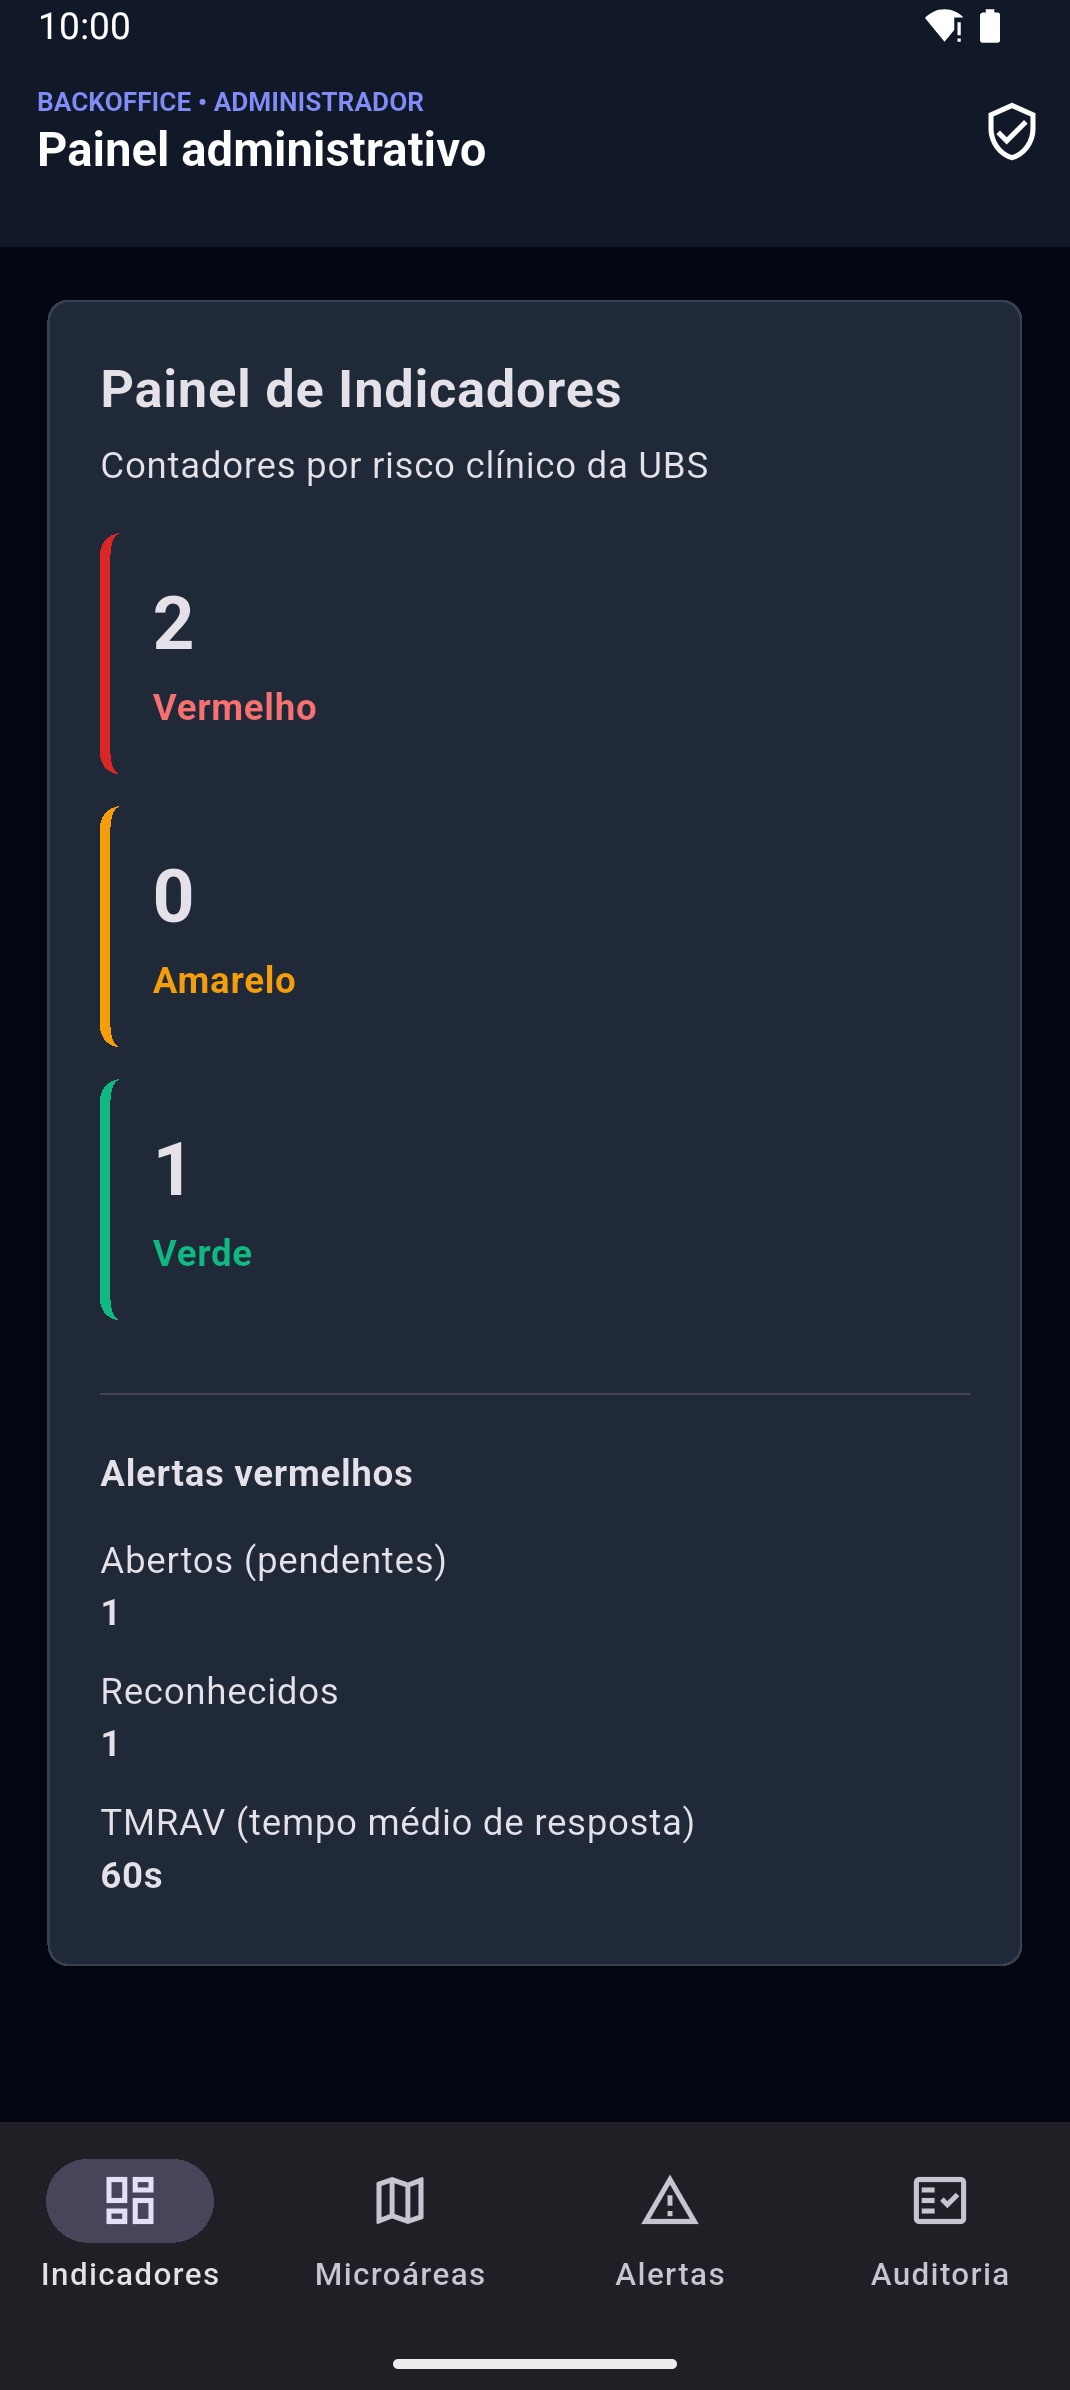
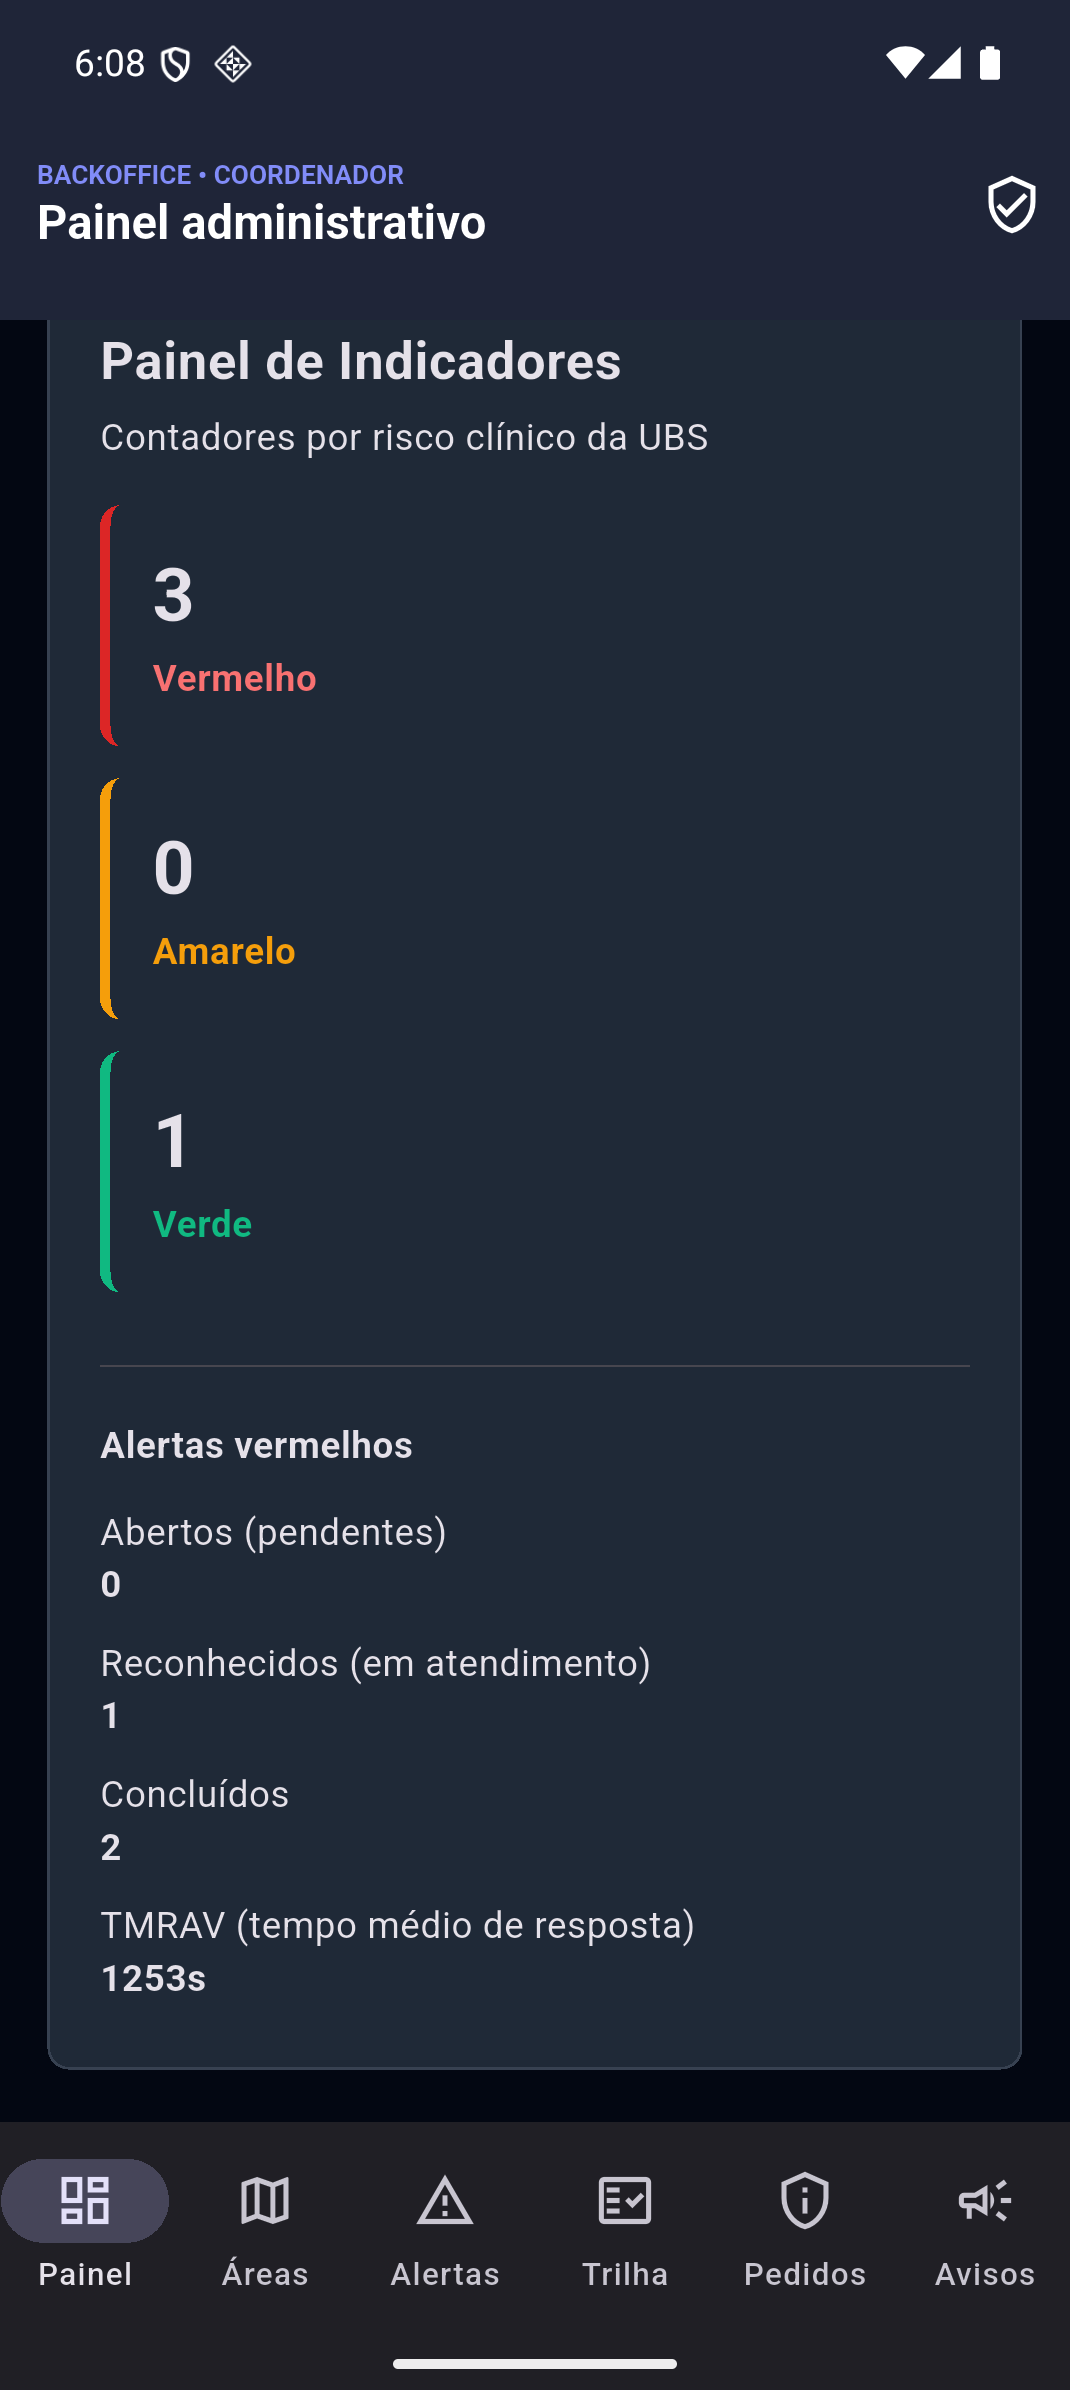
docs(admin): captura do Painel com a linha Concluídos (#87)

diff --git a/docs/telas-admin.md b/docs/telas-admin.md
@@ -1,6 +1,6 @@
 # Telas do Backoffice Admin
 
-Documentação visual do protótipo Flutter do backoffice administrativo (`apps/admin`). Assim como `docs/telas-acs.md` e `docs/telas-paciente.md`, as imagens abaixo foram capturadas rodando o app com dados sintéticos: a 01 no emulador em 2026-10-06 e a 01b no Motorola edge 40 neo em 2026-10-07; as de 02 a 05 em 2026-10-07 no emulador `emulator-5554` (API 36, tema escuro, com a borda de 5 px recortada), com sessão real do administrador de teste e **dados do backend** (3 alertas semeados no banco de e2e, nenhum dado real); as de 06 a 08 em 2026-10-07 no Motorola edge 40 neo (Android 15), de uma rodada anterior, com o painel ainda sobre o mock (o layout é o mesmo, mas os números mostrados nelas não são os do backend). A gestão de contas da issue #43 **não tem capturas ainda** — o porquê está em "Capturas pendentes", na seção de Microáreas.
+Documentação visual do protótipo Flutter do backoffice administrativo (`apps/admin`). Assim como `docs/telas-acs.md` e `docs/telas-paciente.md`, as imagens abaixo foram capturadas rodando o app com dados sintéticos: a 01 no emulador em 2026-10-06 e a 01b no Motorola edge 40 neo em 2026-10-07; as de 03 a 05 em 2026-10-07 no emulador `emulator-5554` (API 36, tema escuro, com a borda de 5 px recortada), com sessão real do administrador de teste e **dados do backend** (3 alertas semeados no banco de e2e, nenhum dado real); a 02 refeita em 2026-10-27 no mesmo emulador, com sessão real do coordenador de teste, no fim da jornada de `scripts/qa/admin_concluidos_e2e.sh` (4 alertas semeados mais o concluído da jornada); as de 06 a 08 em 2026-10-07 no Motorola edge 40 neo (Android 15), de uma rodada anterior, com o painel ainda sobre o mock (o layout é o mesmo, mas os números mostrados nelas não são os do backend). A gestão de contas da issue #43 **não tem capturas ainda** — o porquê está em "Capturas pendentes", na seção de Microáreas.
 
 ## Navegação
 
@@ -31,7 +31,7 @@ Contadores por `RiskLevel` (vermelho/amarelo/verde), alertas vermelhos abertos, 
 
 Desde a issue #44 o painel se atualiza sozinho, pelo pulso de 30 s (`admin.alertsPulse`, que já traz os indicadores); não há botão de recarregar. Se o último pulso bem-sucedido passa de 60 s, uma faixa com ícone e texto ("Dados de HH:MM:SS — sem atualização há N min") avisa que os números estão desatualizados, e some no próximo pulso que der certo. A permanência na tela é registrada na auditoria como uma sessão de monitoramento (início e fim), não uma linha por pulso. Ao lado do título, quando o último pulso conta algum, aparece "N vermelhos vencidos" (singular "1 vermelho vencido"; some com zero): ícone e texto em `redOnSurface`, anunciado ao leitor de tela, não é botão. É a mesma regra de vencido do servidor (`overdueRed` do pulso).
 
-Desde a issue #87 os vermelhos aparecem numa partição fechada por estado: "Abertos (pendentes)", "Reconhecidos (em atendimento)" e "Concluídos" (`resolvedRedAlerts`, mesmo escopo por papel e UBS). A soma das três linhas é sempre o cartão Vermelho (INV-03): um alerta que o ACS conclui sai de "Reconhecidos" e entra em "Concluídos", nunca some da coordenação. A linha nova se atualiza pelo mesmo pulso. A captura acima é anterior à #87 e ainda não mostra a linha "Concluídos" (captura pendente).
+Desde a issue #87 os vermelhos aparecem numa partição fechada por estado: "Abertos (pendentes)", "Reconhecidos (em atendimento)" e "Concluídos" (`resolvedRedAlerts`, mesmo escopo por papel e UBS). A soma das três linhas é sempre o cartão Vermelho (INV-03): um alerta que o ACS conclui sai de "Reconhecidos" e entra em "Concluídos", nunca some da coordenação. A linha nova se atualiza pelo mesmo pulso. A captura acima (2026-10-27, coordenador) mostra o estado final da jornada do e2e: Vermelho 3 = Abertos 0 + Reconhecidos 1 + Concluídos 2; o terceiro concluído do banco não tem microárea e, por isso, não entra no painel do coordenador.
 
 ## Microáreas, vínculo ACS e gestão de contas
 

diff --git a/PROGRESS.md b/PROGRESS.md
@@ -1800,5 +1800,5 @@ Backlog priorizado na seção final do relatório; conferência por `python3 scr
 ## Contador "Concluídos" do backoffice (#87) — 2026-10-26
 
 - Entregue: `admin.indicators` devolve `resolvedRedAlerts` no mesmo escopo por papel e UBS dos demais contadores (mesmo `SELECT`, mesmo `WHERE` de escopo; `admin.alertsPulse` o carrega embutido), e `AdminAlert` ganhou `resolvedAt`. A partição dos vermelhos por estado tem fonte única no servidor (`application/admin/red_alert_bucket.dart`, `RedAlertBucket`: `pending` e o legado `escalated` em "Abertos (pendentes)", `acknowledged` em "Reconhecidos (em atendimento)", `resolved` em "Concluídos"), com `switch` exaustivo: um `AlertStatus` novo não compila sem decidir o contador. Invariante INV-03: `red == openRedAlerts + acknowledgedRedAlerts + resolvedRedAlerts` em todo escopo. No app admin, a tela Indicadores tem a linha "Concluídos" (e "Reconhecidos" passou a "Reconhecidos (em atendimento)", explicitando que não é cumulativo), a lista de Alertas rotula `resolved` como "Concluído" e mostra "Concluído às HH:MM" (`ResolvedBadge`, só com `resolvedAt`), o filtro de status oferece "Concluído", e o pulso compara também o contador novo. Sem migração (modelos de API) e sem mudança em como o status é gravado.
-- Provas: `test/unit/red_alert_bucket_test.dart`, `test/integration/admin_read_store_test.dart` (concluídos por escopo, concluído sem microárea só no sistema, INV-03 com `escalated` legado, `resolvedAt` na linha), `test/integration/admin_endpoint_test.dart` (admin, coordenador A e B, soma por papel), `apps/admin/test/{indicators_resolved,alerts_resolved,backend_admin_data_source,mock_admin_data_source,alerts_auto_refresh}_test.dart`; no emulador, `./scripts/qa/admin_concluidos_e2e.sh` (coordenador; o alerta percorre `pending → acknowledged → resolved` por `UPDATE` no banco de e2e com o Painel aberto, cada passo em exatamente um contador e atualizado pelo pulso sem toque; concluído sem microárea invisível ao coordenador; "Status: Concluído" e "Concluído às" na lista) falhou antes da correção e passou depois (`docs/superpowers/plans/2026-10-26-issue-87-reproducao.log` e `…-e2e.log`); `admin_login_e2e.sh` com o 4º alerta semeado (vermelho concluído).
-- Aberto: "Concluídos" conta todo o histórico do escopo, sem janela de tempo, como "Reconhecidos" (uma janela é decisão de produto); captura de tela do Painel com a linha nova em `docs/telas-admin.md` (pendente); a paginação real da lista do backoffice segue aberta (#44).
+- Provas: `test/unit/red_alert_bucket_test.dart`, `test/integration/admin_read_store_test.dart` (concluídos por escopo, concluído sem microárea só no sistema, INV-03 com `escalated` legado, `resolvedAt` na linha), `test/integration/admin_endpoint_test.dart` (admin, coordenador A e B, soma por papel), `apps/admin/test/{indicators_resolved,alerts_resolved,backend_admin_data_source,mock_admin_data_source,alerts_auto_refresh}_test.dart`; no emulador, `./scripts/qa/admin_concluidos_e2e.sh` (coordenador; o alerta percorre `pending → acknowledged → resolved` por `UPDATE` no banco de e2e com o Painel aberto, cada passo em exatamente um contador e atualizado pelo pulso sem toque; concluído sem microárea invisível ao coordenador; "Status: Concluído" e "Concluído às" na lista) falhou antes da correção e passou depois (`docs/superpowers/plans/2026-10-26-issue-87-reproducao.log` e `…-e2e.log`); `admin_login_e2e.sh` com o 4º alerta semeado (vermelho concluído). Captura do Painel com a linha nova em `docs/telas-admin.md` (`02-indicadores.png`, refeita em 2026-10-27 no fim da jornada do e2e).
+- Aberto: "Concluídos" conta todo o histórico do escopo, sem janela de tempo, como "Reconhecidos" (uma janela é decisão de produto); a paginação real da lista do backoffice segue aberta (#44).
